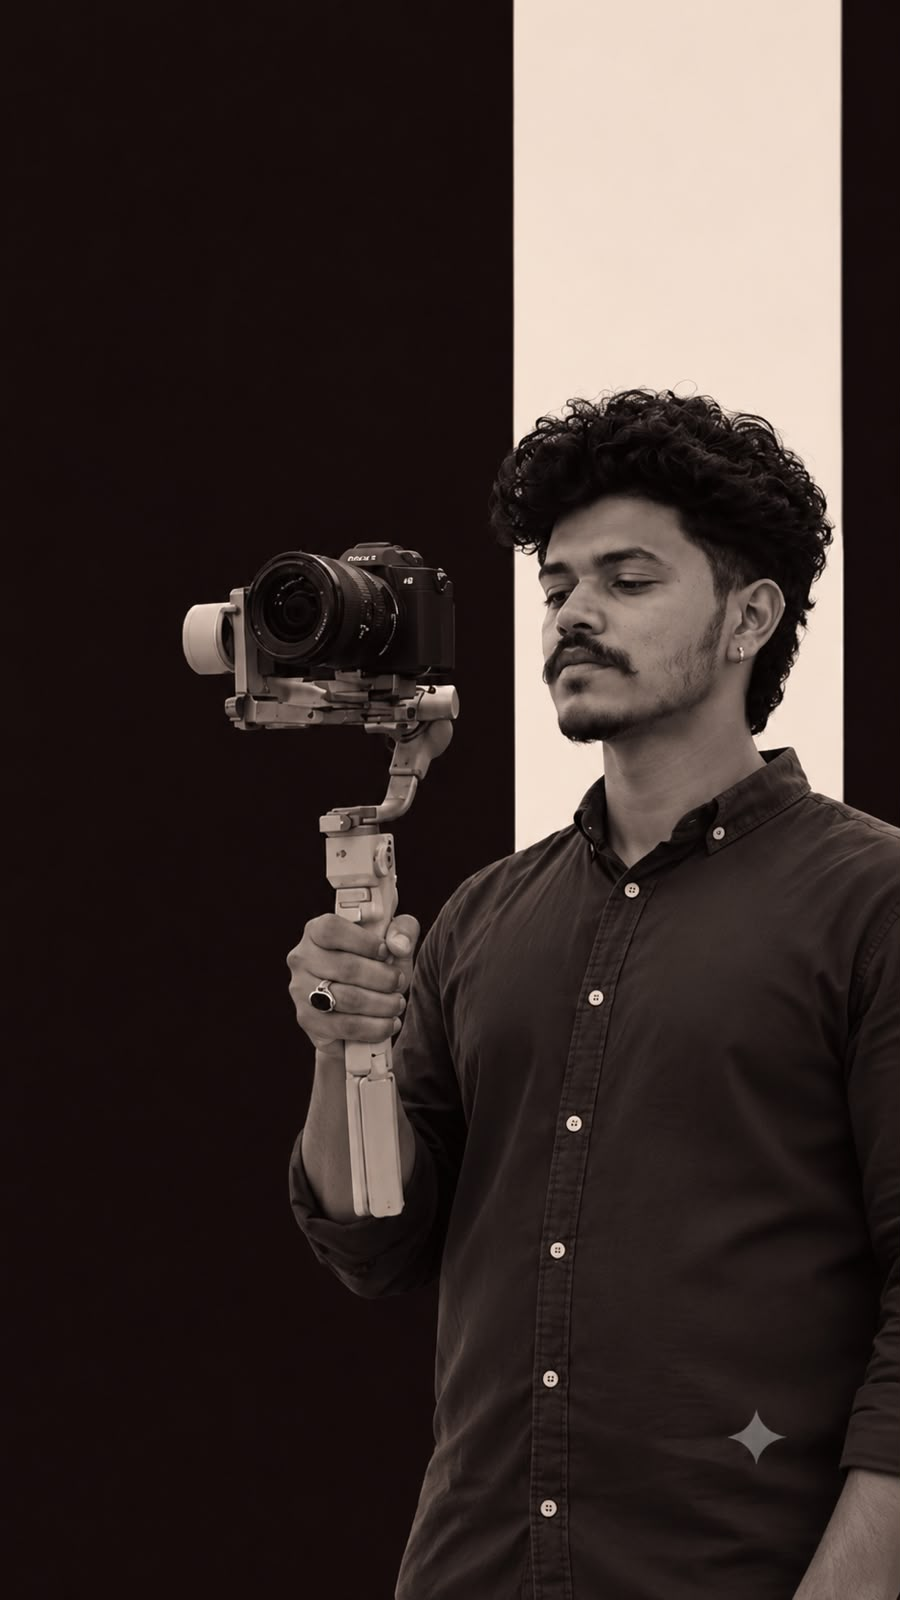
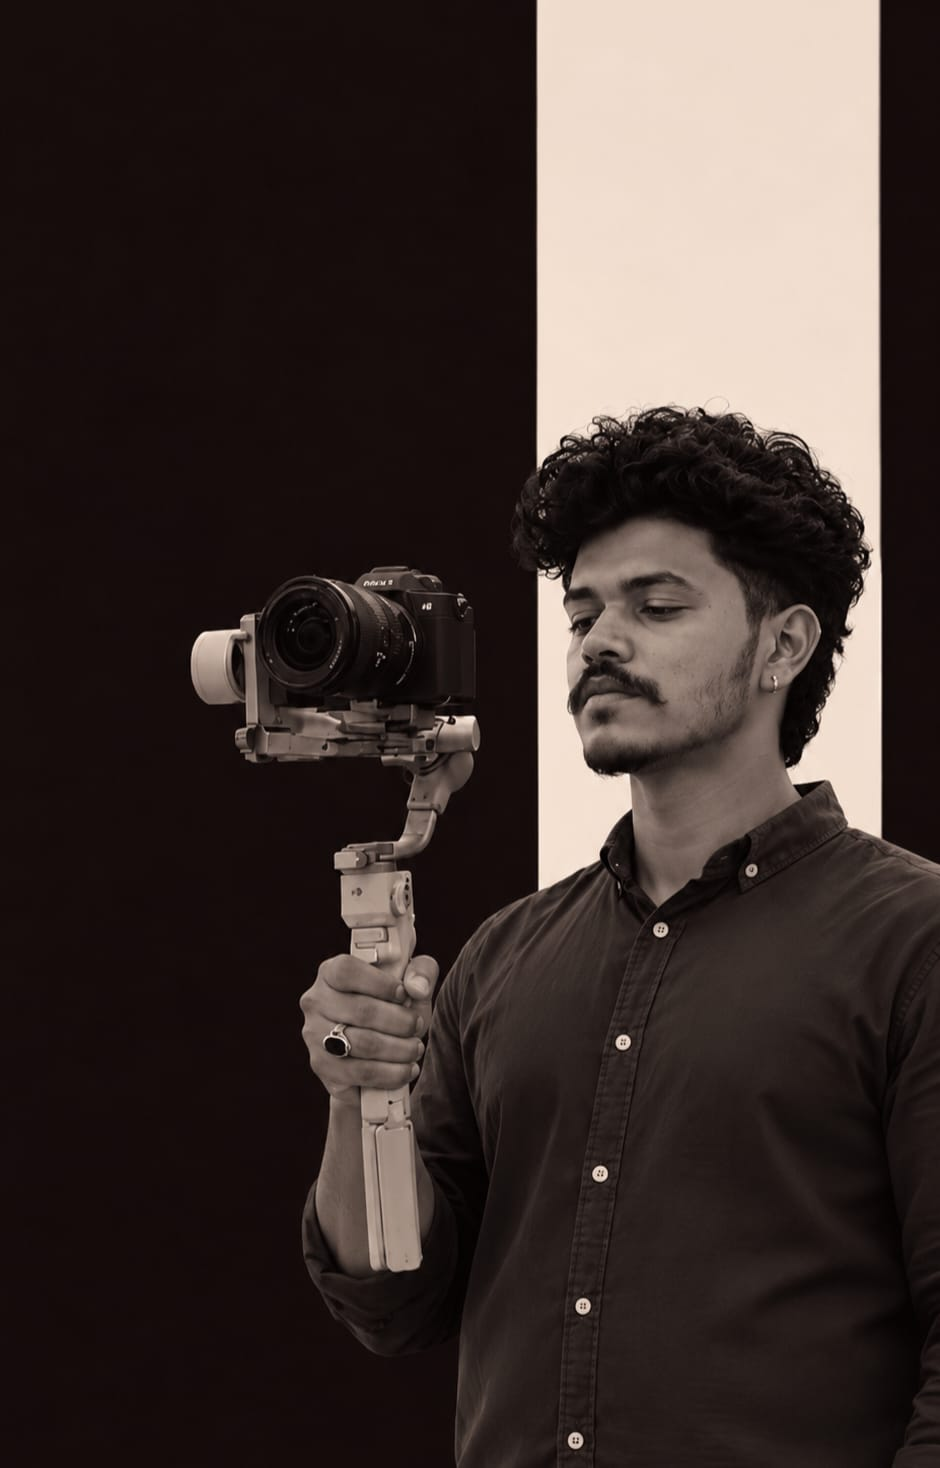
Improve hero mobile responsiveness

diff --git a/src/components/Hero/Hero.jsx b/src/components/Hero/Hero.jsx
@@ -54,7 +54,7 @@ function Hero() {
 
       {/* Hero Container */}
 
-      <div className="relative max-w-7xl mx-auto min-h-screen flex flex-col lg:flex-row items-center justify-between px-5 sm:px-6 md:px-8 lg:px-16 pt-36 md:pt-28 lg:pt-24">
+      <div className="relative max-w-7xl mx-auto min-h-screen flex flex-col lg:flex-row items-center justify-between px-5 sm:px-6 md:px-8 lg:px-16 pt-40 md:pt-28 lg:pt-24">
 
         {/* LEFT SIDE */}
 
@@ -97,7 +97,7 @@ function Hero() {
               duration: 1.2,
               delay: .3,
             }}
-            className="text-white text-6xl md:text-7xl lg:text-[90px] font-extrabold tracking-tight leading-[0.92]"
+            className="text-white text-5xl sm:text-6xl md:text-7xl lg:text-[90px] font-extrabold tracking-tight leading-[0.92] pt-2"
           >
             YOUR
             <br />
@@ -112,7 +112,7 @@ function Hero() {
             initial={{ opacity: 0 }}
             animate={{ opacity: 1 }}
             transition={{ delay: .6 }}
-            className="text-gray-300 text-4xl md:text-5xl lg:text-6xl font-medium tracking-tight mt-4"
+            className="text-gray-300 text-2xl sm:text-3xl md:text-5xl lg:text-6xl font-medium tracking-tight mt-3"
           >
             OUR CREATION.
           </motion.h2>
